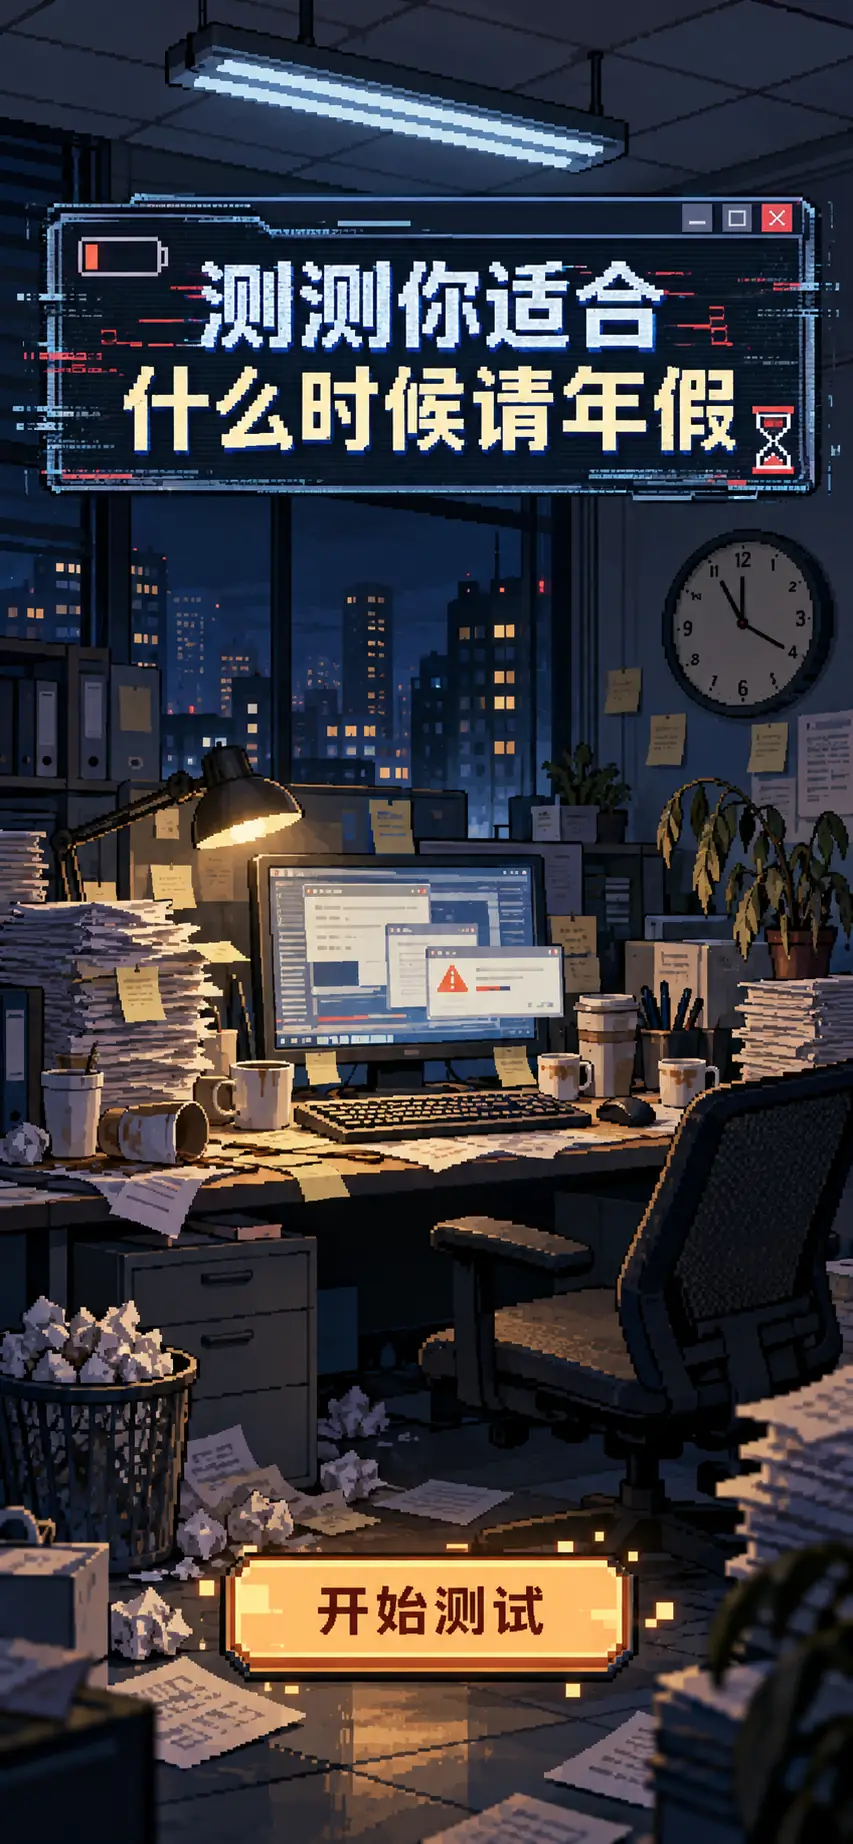
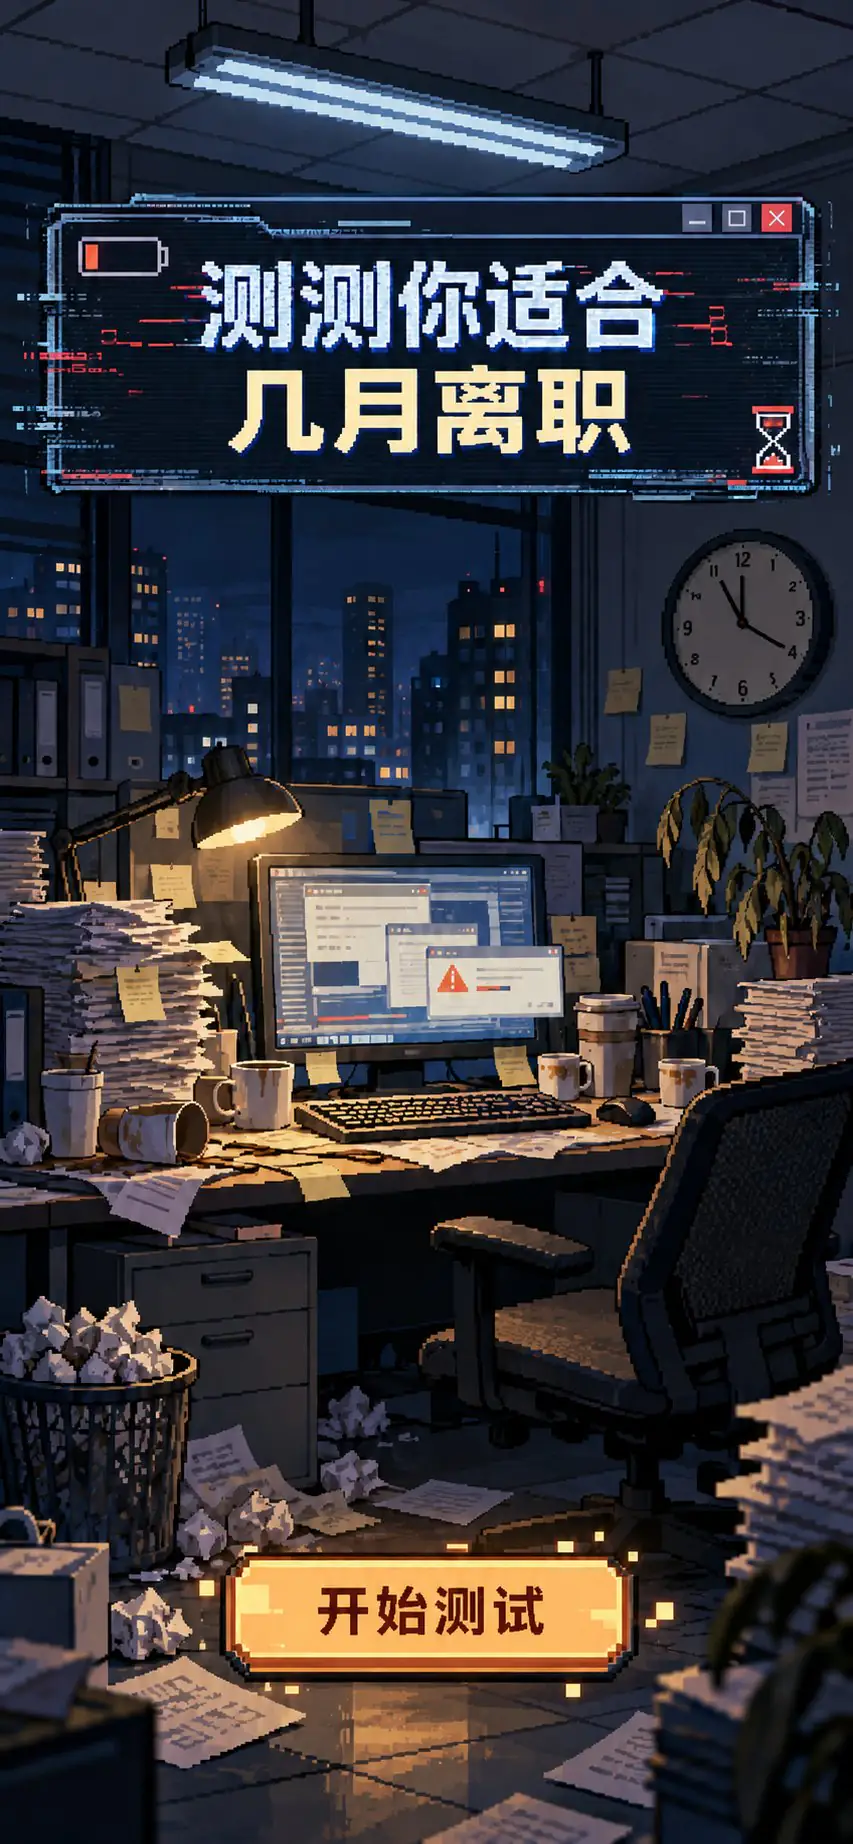
主题改为离职，替换封面图

diff --git a/index.html b/index.html
@@ -6,7 +6,7 @@
 <meta name="theme-color" content="#2B1810">
 <meta name="apple-mobile-web-app-capable" content="yes">
 <meta name="apple-mobile-web-app-status-bar-style" content="black-translucent">
-<title>你适合几月请年假</title>
+<title>你适合几月离职</title>
 <style>
 :root{
   --u: 1px;
@@ -351,8 +351,8 @@ var Q4 = {
        b:{t:'想看草原和寺庙，路比较缓。',             c:'甘南'} }
 };
 
-var Q5 = { stem:'年假摆在你面前，你怎么用？',
-  a:'订票，走人。年假攒着也是过期。', b:'哪也不去，睡到自然醒。' };
+var Q5 = { stem:'离职摆在你面前，你怎么用？',
+  a:'订票，走人。拖下去只会更累。', b:'哪也不去，睡到自然醒。' };
 
 /* 由前三题答案推导所属包 */
 function packOf(a1, a2, a3){
@@ -383,15 +383,15 @@ function questionAt(i, ans){
 function countdown(m){
   var now = new Date().getMonth() + 1;
   var d = m - now;
-  if(d === 0) return '就是现在。去提申请。';
+  if(d === 0) return '就是现在。去提离职。';
   if(d < 0)   return '今年的 ' + m + ' 月过了。要么等明年，要么下个月就走。';
-  if(d <= 3)  return '现在是 ' + now + ' 月，还有 ' + d + ' 个月。提前两周报备就够，机票还没涨。';
+  if(d <= 3)  return '现在是 ' + now + ' 月，还有 ' + d + ' 个月。提前一个月提就行，机票还没涨。';
   if(d <= 8)  return '现在是 ' + now + ' 月，还有 ' + d + ' 个月。够你把活儿排开，也够你等一张便宜的机票。';
-  return '现在是 ' + now + ' 月，还有 ' + d + ' 个月。时间还长，先把年假攒够。';
+  return '现在是 ' + now + ' 月，还有 ' + d + ' 个月。时间还长，先把底气攒够。';
 }
 function leaveApplyText(m){
   var prev = (m === 1) ? 12 : m - 1;
-  return prev + ' 月中旬把申请交上去，' + m + ' 月初落地，刚好';
+  return prev + ' 月中旬提离职，' + m + ' 月初落地，刚好';
 }
 
 /* ============ 3. 状态与渲染 ============ */
@@ -459,14 +459,14 @@ function buildResult(){
   var shareText;
 
   if(q5 === 1){                       /* B 线：躺平结局 */
-    shareText = '我哪个月请年假都行。你呢？';
+    shareText = '我哪个月离职都行。你呢？';
     elResult.appendChild(line('你的答案', 24, '#8A5A42'));
     elResult.appendChild(spacer(8));
     elResult.appendChild(line('哪也不去', 50, '#4F1E0E'));
     elResult.appendChild(sep());
     elResult.appendChild(line('所以', 24, '#8A5A42'));
     elResult.appendChild(spacer(8));
-    elResult.appendChild(line('你哪个月请年假都行', 50, '#B8491A'));
+    elResult.appendChild(line('你哪个月离职都行', 50, '#B8491A'));
     elResult.appendChild(spacer(16));
     elResult.appendChild(line('不挑地方的人，也不挑月份。', 26, '#4F1E0E'));
     elResult.appendChild(spacer(6));
@@ -480,10 +480,10 @@ function buildResult(){
     elResult.appendChild(line('1–12 月全部点亮', 24, '#8A5A42'));
     elResult.appendChild(sep());
     elResult.appendChild(line('哪天你想出门了，回来再测一次。', 25, '#4F1E0E'));
-  }else{                              /* A 线：年假月 */
+  }else{                              /* A 线：离职月 */
     var city = Q4[packOf(ans[0], ans[1], ans[2])][ans[3] === 0 ? 'a' : 'b'].c;
     var info = CITIES[city];
-    shareText = '我的年假该请 ' + info.m + ' 月，去' + city + '。你呢？';
+    shareText = '我该在 ' + info.m + ' 月离职，去' + city + '。你呢？';
 
     elResult.appendChild(line('你想去的地方', 24, '#8A5A42'));
     elResult.appendChild(spacer(8));
@@ -495,7 +495,7 @@ function buildResult(){
     elResult.appendChild(spacer(8));
     elResult.appendChild(line(info.why, 25, '#4F1E0E', 576, 0.5));
     elResult.appendChild(sep());
-    elResult.appendChild(line('你的年假该请', 24, '#8A5A42'));
+    elResult.appendChild(line('你该离职的月份', 24, '#8A5A42'));
     elResult.appendChild(spacer(4));
     elResult.appendChild(line(info.m + ' 月', 72, '#4F1E0E'));
     elResult.appendChild(spacer(16));
@@ -589,8 +589,8 @@ function reset(){
 /* ============ 6. 过场剧情 ============
    封面之后先走两页剧情：storyA 无气泡，storyB 气泡里逐句出字。
    气泡白区实测（853×1844 基准）：x 49–339 / y 597–718，中心 (194, 658)，
-   字面高 28 时最长的「先请年假冷静一下」约 241px，塞得进 280 的可用宽。 */
-var BUBBLE_LINES = ['……', '受够了', '要不离职吧？', '先请年假冷静一下', '现在吗', '我想想'];
+   字面高 28 时最长的「要不离职吧？」约 168px，塞得进 280 的可用宽。 */
+var BUBBLE_LINES = ['……', '受够了', '要不离职吧？', '冷静一下？', '现在吗', '我想想'];
 var bubbleIdx = 0;
 
 function drawBubble(){

diff --git a/README.md b/README.md
@@ -1,6 +1,6 @@
-# 你适合几月请年假
+# 你适合几月离职
 
-像素风二选一测试。答完 5 道题，告诉你年假该请几月、去哪座城市。
+像素风二选一测试。答完 5 道题，告诉你该在几月离职、去哪座城市。
 
 ## 文件
 
@@ -18,7 +18,7 @@
 
 封面 →「开始测试」→ 剧情A（轻触 1 次）→ 剧情B（轻触 6 次，气泡逐句出字）→ 选性别 → 5 道题 → 结果页
 
-剧情B 的气泡文字顺序：`……` → `受够了` → `要不离职吧？` → `先请年假冷静一下` → `现在吗` → `我想想`。进页先给第一句，之后每触一次出下一句（触发 5 次走完六句），最后一句之后再触一次进选性别页。
+剧情B 的气泡文字顺序：`……` → `受够了` → `要不离职吧？` → `冷静一下？` → `现在吗` → `我想想`。进页先给第一句，之后每触一次出下一句（触发 5 次走完六句），最后一句之后再触一次进选性别页。
 
 ## 本地打开
 
@@ -52,7 +52,7 @@ python3 -m http.server 8000
 | `Q4` | 8 个包内的二选一 |
 | `Q5` | 分叉题，决定结局走哪条线 |
 | `countdown()` | 结果页倒计时（按系统当前月份实时算） |
-| `leaveApplyText()` | 「提前两周交申请」那一行 |
+| `leaveApplyText()` | 「X 月中旬提离职」那一行 |
 | `buildResult()` | 结果页的版式与标签文案 |
 | `BUBBLE_LINES` | 剧情B 气泡里的六句话，按顺序出 |
 | `drawHint()` | 剧情页底部「轻触继续」的提示 |
@@ -63,12 +63,12 @@ python3 -m http.server 8000
 ## 实现说明
 
 - 背景是固定 **853×1844** 的像素画。所有文字按这个基准定位，用 CSS 变量 `--u = 屏幕宽 / 853` 换算，任意屏幕等比缩放，不写死像素。
-- 六张背景图合计 **581 KB**（WebP q70），整包 < 650 KB。图是首屏加载的大头，**再加图之前先想清楚体积**。压缩参数是 `quality=70, method=6, sharp_yuv=True`，`sharp_yuv` 相比默认能再省 10% 左右且边缘更干净。**不要再往下压**——q60 只省 27KB，但暗部开始出色块。
+- 六张背景图合计 **578 KB**（WebP q70），整包 < 650 KB。图是首屏加载的大头，**再加图之前先想清楚体积**。压缩命令是 `cwebp -q 70 -m 6 -sharp_yuv`，`-sharp_yuv` 相比默认能再省 10% 左右且边缘更干净。**不要再往下压**——q60 只省 27KB，但暗部开始出色块。
 - 封面图、两张剧情图、选性别页都与题卡画布**同为 853×1844**，比例一致，所以在舞台里都是**满屏**的，不留白也不裁切。
-- 封面的点击热区不是写死的百分比，而是运行时按实际缩放和偏移算出来的（`layoutCover()`），所以换屏幕比例也不会点偏；手指热区在按钮外再扩 26px（图片像素）。实测按钮外框为 x 220–636 / y 1550–1678（853×1844 基准），热区中心落在屏高 87% 处。
+- 封面的点击热区不是写死的百分比，而是运行时按实际缩放和偏移算出来的（`layoutCover()`），所以换屏幕比例也不会点偏；手指热区在按钮外再扩 26px（图片像素）。实测封面按钮为 x 227–621 / y 1556–1670，热区取 x 220–636 / y 1550–1678（853×1844 基准），中心落在屏高 87% 处。
 - 剧情页的热区是整页（点哪都行），不用算。
 - 选性别页的热区用 `--u` 直接写坐标：男生卡 x 40–812 / y 633–1026，女生卡 x 40–812 / y 1071–1466（实测卡片边框，两张各 772×394）。
-- 气泡文字的中心是 **(194, 658)**（气泡白区实测 x 49–339 / y 597–718），字面高 28。最长的「先请年假冷静一下」成品宽约 255px，气泡在该高度可用宽约 280px，留边约 12px。
+- 气泡文字的中心是 **(194, 658)**（气泡白区实测 x 49–339 / y 597–718），字面高 28。最长的「要不离职吧？」成品宽约 168px，气泡在该高度可用宽约 280px，留边充足。
 - 文字不是图片，是 canvas 实时渲染的像素字：系统宋体 28px 光栅化 → 阈值二值化 → 最近邻放大 → `image-rendering: pixelated`。笔画边缘是硬边，不会糊在像素背景上。
 - 字色 `#4F1E0E`；字面高：题号 32 / 题干 47 / 选项 42，均取自原图实测。
 - 中文断行做了标点优先：贪心铺满后回退到最近的标点断行，不会出现「什么」被劈成两行。
